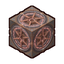
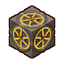
Hidden Cube picture: the six spokes and the ring of each wheel in yellow; the height number on the map bold and bright on a dark plate

Changed region(s): [[0.1875, 0.4062, 0.8125, 0.7812], [0.3125, 0.1875, 0.6875, 0.4375]]

diff --git a/Tools/aion2-icons/render_cube_model.py b/Tools/aion2-icons/render_cube_model.py
@@ -12,6 +12,11 @@ from PIL import Image, ImageFilter
 
 sys.path.insert(0, __file__.rsplit("/", 1)[0])
 import build_gather_icons as bg  # noqa: E402  (dds / convert helpers)
+import os
+
+
+SPOKE_PHASE_BY_AXIS = {0: 0.0, 1: 0.0, 2: 30.0}   # the wheels of the faces along x and y start at the x axis, those along z half a spoke later
+HUB_OUT, RING_IN, RING_OUT, SPOKE_HALF_WIDTH = 0.07, 0.275, 0.31, 0.022
 
 
 def load_texture(path):
@@ -61,6 +66,10 @@ def read_glb(path):
 def main():
     glb, diffuse, fx, out = sys.argv[1:5]
     size = int(sys.argv[5]) if len(sys.argv) > 5 else 64
+    for item in os.environ.get("CUBE_PHASES", "").split(","):
+        if ":" in item:
+            axis, value = item.split(":")
+            SPOKE_PHASE_BY_AXIS[int(axis)] = float(value)
     pos, nor, uv, idx = read_glb(glb)
     tex, glow = load_texture(diffuse), load_texture(fx)
     tp, gp = tex.load(), glow.load()
@@ -119,14 +128,34 @@ def main():
                 shade = 0.55 + 0.6 * lam
                 er, eg, eb = gp[min(gw - 1, max(0, int(u * gw))), min(gw - 1, max(0, int(v * gw)))]
                 e = max(er, eg) / 255.0   # the glyphs are drawn in the red channel
-                hot = min(1.0, e * 2.0)
+                # the wheel on every face: its six spokes and the ring are painted yellow (found by where the point lies on its face: the angle round the face's
+                # centre and the distance from it), the glyphs keep their red glow
+                mp = [w0 * pos[a][i] + w1 * pos[b][i] + w2 * pos[c][i] for i in range(3)]
+                nm = [w0 * nor[a][i] + w1 * nor[b][i] + w2 * nor[c][i] for i in range(3)]   # the normal in the model's own axes
+                nml = math.sqrt(sum(q * q for q in nm)) or 1
+                ax = max(range(3), key=lambda i: abs(nm[i]))
+                yellow = 0.0
+                if abs(nm[ax]) / nml > 0.55:
+                    rel = [mp[0], mp[1] - 1.1, mp[2]]
+                    uu, vv = [rel[i] for i in range(3) if i != ax]
+                    rr = math.hypot(uu, vv)
+                    phase = SPOKE_PHASE_BY_AXIS[ax]
+                    off = (math.degrees(math.atan2(vv, uu)) - phase) % 60.0
+                    ang = min(off, 60.0 - off)
+                    if RING_IN <= rr <= RING_OUT:
+                        yellow = 1.0
+                    elif HUB_OUT < rr < RING_IN and ang * math.pi / 180 * rr < SPOKE_HALF_WIDTH:
+                        yellow = 1.0
+                hot = 0.0 if yellow else min(1.0, e * 2.0)
                 # the stone keeps the colours of the model; only the glyphs and the lines of the rings glow, red with an almost white core
-                R = min(255, int(r * shade + hot * 255))
-                G = min(255, int(g * shade * (1 - 0.7 * hot) + hot * 150))
-                B = min(255, int(bl * shade * (1 - 0.7 * hot) + hot * 140))
+                if yellow:
+                    r, g, bl = 255, 205, 30
+                R = min(255, int(r * (1.0 if yellow else shade) + hot * 255))
+                G = min(255, int(g * (1.0 if yellow else shade) * (1 - 0.7 * hot) + hot * 150))
+                B = min(255, int(bl * (1.0 if yellow else shade) * (1 - 0.7 * hot) + hot * 140))
                 zbuf[y][x] = z
                 ip[x, y] = (R, G, B, 255)
-                ep[x, y] = int(255 * min(1.0, e * 1.6))
+                ep[x, y] = 0 if yellow else int(255 * min(1.0, e * 1.6))
     # the cube glows: the glyphs light up and bleed into the stone around them (an additive orange bloom over the picture, where the cube is)
     soft = emit.filter(ImageFilter.GaussianBlur(max(2, S // size * 3)))
     wide = emit.filter(ImageFilter.GaussianBlur(max(4, S // size * 8)))

diff --git a/Client/Ui/PetMapWindows.cs b/Client/Ui/PetMapWindows.cs
@@ -877,8 +877,9 @@ public sealed class PetMapWindow : MovableOverlay
             {
                 var label = new TextBlock
                 {
-                    FontSize = 13, FontWeight = FontWeights.Bold, Foreground = new SolidColorBrush(Color.FromRgb(0x5A, 0xB4, 0xFF)), IsHitTestVisible = false,
-                    Effect = new System.Windows.Media.Effects.DropShadowEffect { BlurRadius = 3, ShadowDepth = 0, Color = Colors.Black, Opacity = 1 },
+                    FontSize = 15, FontWeight = FontWeights.ExtraBold, Foreground = new SolidColorBrush(Color.FromRgb(0x9B, 0xE0, 0xFF)), IsHitTestVisible = false,
+                    // a dark plate behind the number, so that it can be read on the light and the dark parts of the map
+                    Background = new SolidColorBrush(Color.FromArgb(0xD8, 0x08, 0x10, 0x20)), Padding = new Thickness(4, 1, 4, 1),
                 };
                 _heightLabels.Add(label);
                 _canvas.Children.Add(label);
